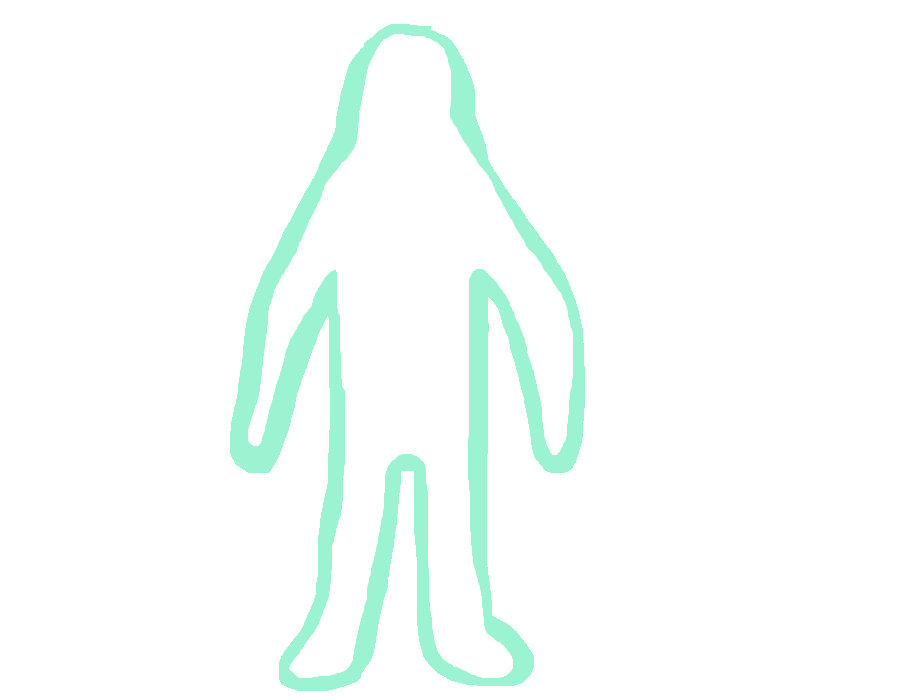
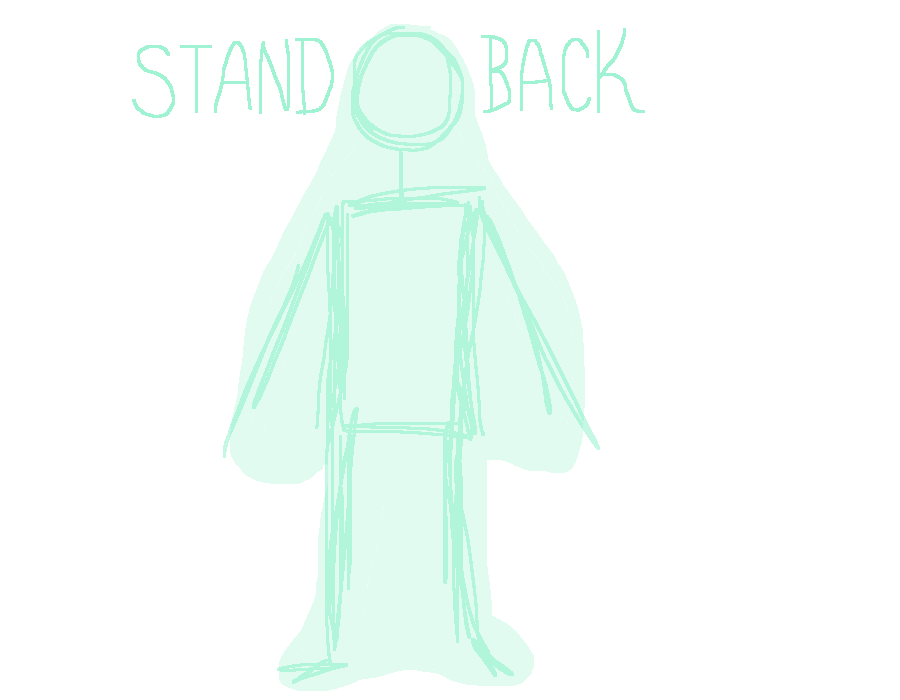
working on body outline and drawSkeleton/drawPoints

Changed region(s): [[0.1556, 0.03, 0.7156, 0.99], [0.1556, 0.15, 0.1867, 0.18]]

diff --git a/client/components/GameInit.js b/client/components/GameInit.js
@@ -1,6 +1,6 @@
 import React, {Component} from 'react'
 import {connect} from 'react-redux'
-import {bodyPointLocations} from './utils'
+import {bodyPointLocations, drawKeyPoints, drawSkeleton} from './utils'
 import {gotProportions} from '../store'
 
 class GameInit extends Component {

diff --git a/public/style.css b/public/style.css
@@ -140,8 +140,8 @@ form div {
 #bodyOutline {
   z-index: 7;
   position: fixed;
-  height: 78%;
-  top: 40px;
+  height: 80%;
+  top: 55px;
   left: 300px;
 
   /* fade out: */
